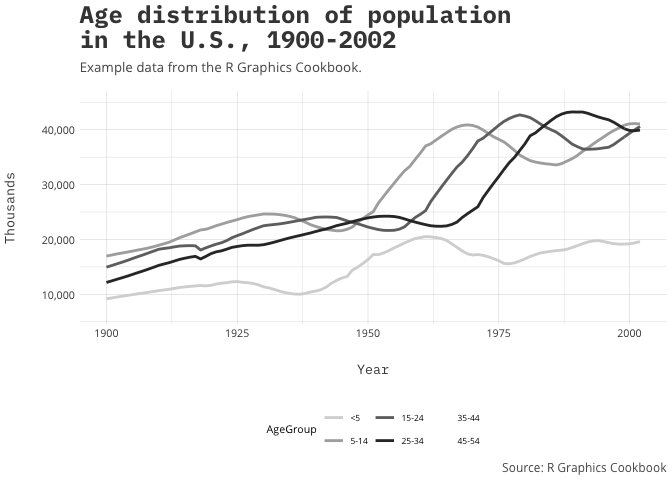
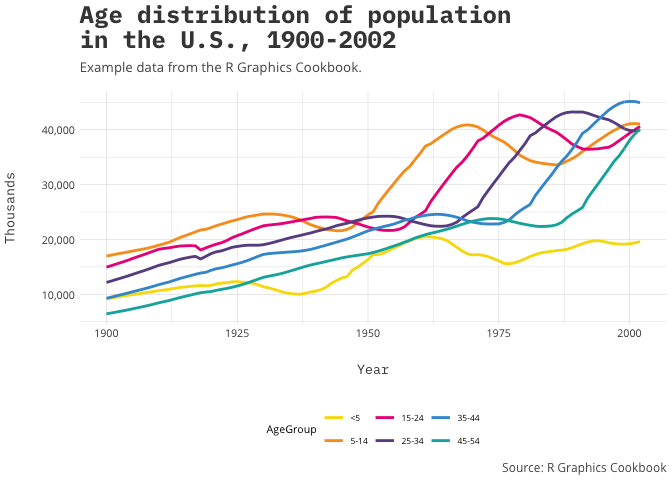
remove warnings

diff --git a/README.md b/README.md
@@ -40,7 +40,7 @@ uspopage<-uspopage%>%
   filter(uspopage$AgeGroup %in% head(groups,6))
 ggplot(uspopage, aes(x=Year, y=Thousands, color=AgeGroup)) + 
   geom_line(size=1) +
-  a_gray_color() +
+  a_primary_color() +
   scale_y_continuous(labels = scales::comma)+
   labs(title="Age distribution of population\nin the U.S., 1900-2002",
        subtitle="Example data from the R Graphics Cookbook.",
@@ -48,11 +48,6 @@ ggplot(uspopage, aes(x=Year, y=Thousands, color=AgeGroup)) +
   a_plex_theme() +
   theme(legend.position="bottom")
 ```
-
-    ## Warning: This manual palette can handle a maximum of 4 values. You have
-    ## supplied 6.
-
-    ## Warning: Removed 206 rows containing missing values (geom_path).
 
 ![](README_files/figure-markdown_github/unnamed-chunk-2-1.png)
 
